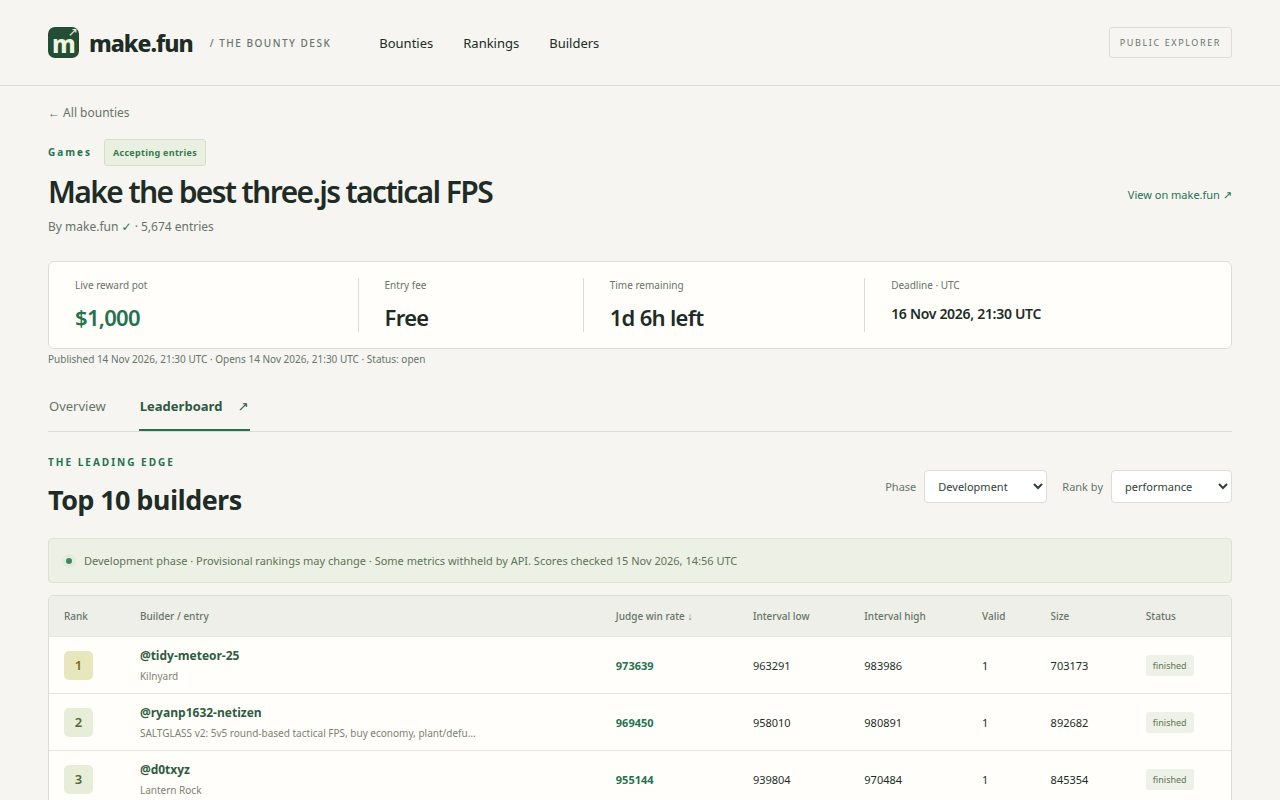
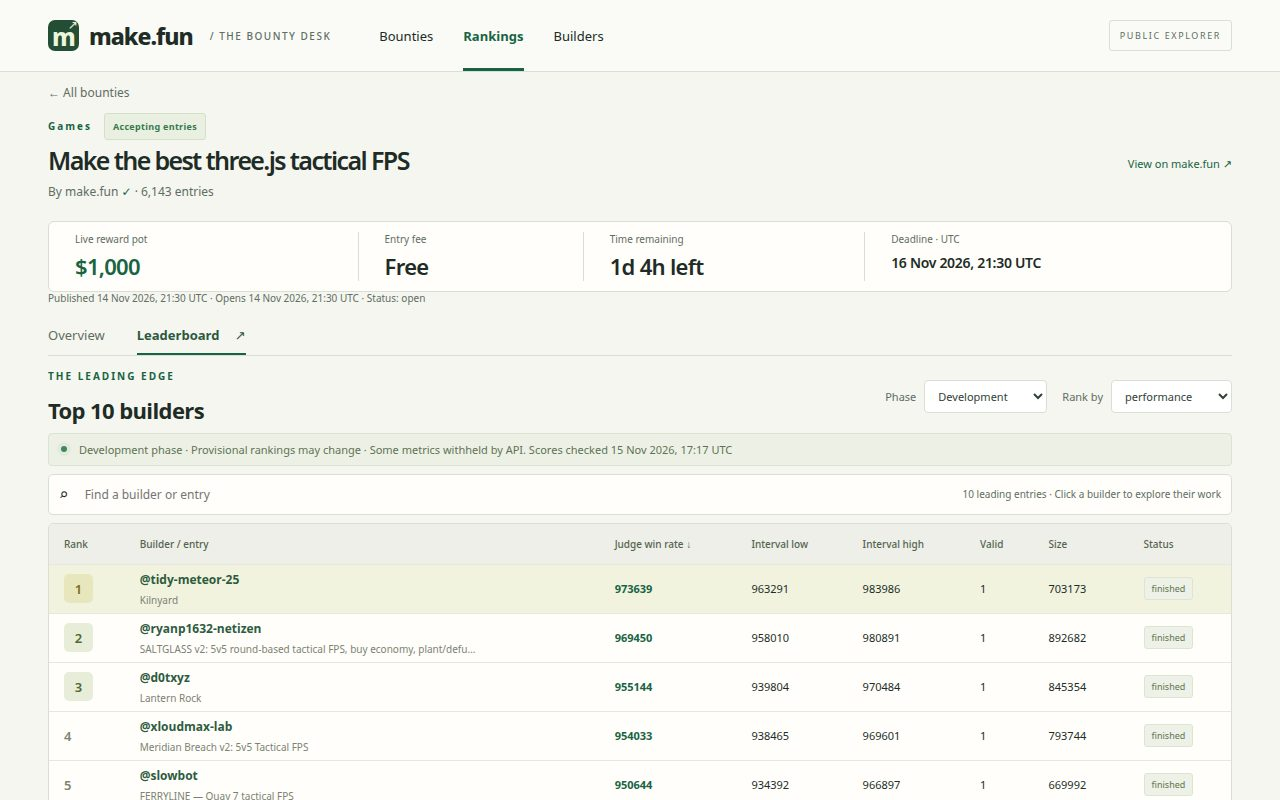
Add compact bounty timetable and surface filters

diff --git a/src/style.css b/src/style.css
@@ -1,0 +1,8 @@
+:root{font-family:system-ui,-apple-system,BlinkMacSystemFont,"Segoe UI",sans-serif;color:#202b26;background:#f6f5f1;font-synthesis:none;--green:#267150;--muted:#68736a;--line:#dcded5}*{box-sizing:border-box}body{margin:0}a{color:inherit;text-decoration:none}a:hover{color:var(--green)}button,input,select{font:inherit}button,select{cursor:pointer}button{padding:11px 18px;border:1px solid var(--line);background:#fff;border-radius:5px;color:#243f31}button:hover{border-color:var(--green);background:#edf3e9}button:disabled{opacity:.55}a:focus-visible,button:focus-visible,input:focus-visible,select:focus-visible,summary:focus-visible{outline:3px solid #2a815b;outline-offset:4px}header{height:86px;margin:0 auto;padding:0 48px;border-bottom:1px solid var(--line);display:flex;align-items:center;gap:48px}.brand{font-weight:800;font-size:23px;display:flex;align-items:center;gap:10px;letter-spacing:-1px}.mark{background:#244d35;color:#eef5dd;width:31px;height:31px;display:grid;place-items:center;border-radius:7px;font-size:24px;position:relative}.mark span{font-size:12px;position:absolute;right:2px;top:-4px}.edition{font-size:10px;letter-spacing:1.5px;font-weight:500;color:var(--muted);margin-left:7px}header nav{display:flex;gap:30px;font-size:13px}header nav a[aria-current]{font-weight:700}header nav a:hover{text-decoration:underline}.readonly{margin-left:auto;font-size:9px;letter-spacing:1.6px;color:var(--muted);border:1px solid var(--line);padding:8px 10px;border-radius:3px}main{max-width:1184px;padding:0 0 50px;margin:auto;min-height:calc(100vh - 166px)}main:focus{outline:none}.intro{display:grid;grid-template-columns:1fr 420px;gap:80px;padding:50px 0 42px;align-items:center}.eyebrow{font-size:10px;letter-spacing:2px;font-weight:700;color:var(--green);margin:0 0 18px;display:flex;align-items:center;gap:12px}.dot,.live-label i{display:inline-block;width:6px;height:6px;border-radius:50%;background:#3f8860}.dot{box-shadow:0 0 0 4px #e3ebdc}h1{font-size:58px;line-height:1.04;letter-spacing:-2.8px;font-weight:600;margin:0 0 20px}h2{font-size:20px;letter-spacing:-.6px;margin:0}h3{font-size:17px;line-height:1.5}p{line-height:1.7}.lede{font-size:14px;color:var(--muted);margin:0}.board-total{background:#e9eddf;border:1px solid #d8dfc9;padding:27px 29px;border-radius:7px;position:relative;overflow:hidden}.board-total:after{content:'↗';position:absolute;right:24px;top:38px;font-size:62px;font-weight:200;color:#a0b48f}.board-total>.eyebrow{font-size:9px;letter-spacing:1.8px}.board-total>strong{display:block;font-size:49px;font-weight:600;letter-spacing:-2px;color:#2f5034;line-height:1.3}.board-total>span:not(.eyebrow){font-size:12px;color:#5f7059}.mini-stats{display:flex;justify-content:space-between;border-top:1px solid #d0d9c2;margin-top:23px;padding-top:16px;font-size:10px;color:#5f7059}.mini-stats b{color:#304b31}.live-label{display:flex;align-items:center;gap:5px}.section-heading{display:flex;align-items:center;justify-content:space-between;margin:0 0 20px;gap:15px}.section-heading>span{font-size:11px;color:var(--muted)}.count{font-size:11px;background:#e8e9e2;letter-spacing:0;margin-left:8px;padding:4px 8px;border-radius:12px;vertical-align:middle;color:#6a7468}.filters{border:1px solid var(--line);border-radius:5px;background:#fcfcf9;display:flex;align-items:center;gap:18px;padding:11px 14px;margin-bottom:14px}.search{display:flex;align-items:center;gap:10px;flex:1}.search>span{font-size:25px;color:#7a8679;line-height:1}input[type=search]{border:0;background:transparent;min-width:80px;width:100%;font-size:12px;padding:6px;color:#263c2e;outline-offset:0}.category-label{display:flex;align-items:center;gap:10px;border-left:1px solid var(--line);padding-left:18px;font-size:11px;color:var(--muted)}select{border:1px solid var(--line);background:#fff;border-radius:4px;padding:7px 22px 7px 9px;font-size:11px;color:#324137}.open-only{display:flex;align-items:center;gap:7px;font-size:11px;color:#5b675e}input[type=checkbox]{accent-color:var(--green)}.board-columns,.bounty-row{display:grid;grid-template-columns:minmax(320px,1fr) 130px 100px 140px 80px 22px;gap:16px;align-items:center}.board-columns{font-size:9px;letter-spacing:1.2px;color:#768075;padding:12px 21px}.bounty-row{padding:21px;background:#fffefa;border:1px solid var(--line);border-radius:5px;margin-bottom:9px;transition:border-color .15s}.bounty-row:hover{border-color:#8eaa89}.bounty-name{display:flex;align-items:center;gap:15px;min-width:0}.category-icon{display:grid;place-items:center;flex-shrink:0;width:40px;height:40px;border:1px solid #e2e6da;background:#eef1e6;border-radius:7px;font-size:23px;color:#47613c}.bounty-name a{font-size:13px;font-weight:600;line-height:1.45;display:block}.category{display:block;font-size:10px;color:#687462;margin-top:6px}.category>span{color:#92978b}.pot{font-size:21px;font-weight:600;letter-spacing:-.6px;color:#306447;font-variant-numeric:tabular-nums}.fee,.entries{font-size:12px;color:#657060}.deadline{font-size:11px;color:#7a8077}.deadline.active time{background:#edf2e6;color:#4d6b3b;padding:7px 9px;border-radius:4px;white-space:nowrap}.row-arrow{font-size:20px;color:#708069}.ended .category-icon{background:#f1f0eb;color:#8a8b80}.ended .pot{color:#687361}.list-bottom{display:flex;align-items:center;justify-content:space-between;margin-top:20px;font-size:11px;color:var(--muted)}footer{display:flex;align-items:center;justify-content:space-between;gap:20px;border-top:1px solid var(--line);padding:25px 48px;font-size:10px;color:var(--muted)}.brand.small{font-size:17px;letter-spacing:-.6px;color:#364b3c}.back{display:inline-block;font-size:12px;color:var(--muted);margin:30px 0}.detail-title{display:flex;justify-content:space-between;align-items:center;gap:35px}.detail-title h1{font-size:39px;max-width:800px;line-height:1.12;letter-spacing:-1.6px;margin-bottom:14px}.detail-title .eyebrow{margin-bottom:15px}.tag{font-size:9px;letter-spacing:.3px;border:1px solid var(--line);border-radius:3px;padding:5px 8px;color:#78816d}.tag.green{color:#38784c;background:#e9f0e2;border-color:#d5e0c8}.sponsor{font-size:12px;color:var(--muted);margin:0 0 24px}.sponsor>span{color:var(--green)}.text-link{font-size:11px;white-space:nowrap;color:var(--green)}.metric-strip{display:grid;grid-template-columns:1.1fr .8fr 1fr 1.3fr;border:1px solid var(--line);border-radius:6px;background:#fffefa;margin:8px 0 22px;padding:22px 0}.metric-strip>div{padding:0 26px;border-right:1px solid var(--line)}.metric-strip>div:last-child{border:0}.metric-strip span{display:block;font-size:10px;color:var(--muted);margin-bottom:10px}.metric-strip strong{font-size:26px;font-weight:600;letter-spacing:-.7px}.metric-strip .accent{color:var(--green)}.metric-strip .date-metric{font-size:15px;letter-spacing:-.3px}.metric-strip .time-metric{font-size:23px}.tabs{display:flex;gap:32px;border-bottom:1px solid var(--line);margin-bottom:30px}.tabs a{padding:14px 1px;font-size:13px;color:var(--muted)}.tabs a[aria-current]{color:#2d573e;border-bottom:2px solid var(--green);font-weight:650}.tabs span{margin-left:12px}.detail-grid{display:grid;grid-template-columns:minmax(0,1fr) 330px;gap:48px;align-items:start}.description>.eyebrow{margin-top:6px}.description h2{font-size:25px}.summary{font-size:15px;color:#4b5d4d;line-height:1.8}.prose{font-size:13px;line-height:1.8;color:#596356;overflow-wrap:anywhere}.prose h3{color:#2d3d30;margin-top:27px}.prose p{margin:16px 0}.panel{padding:23px;background:#fffefa;border:1px solid var(--line);border-radius:6px;margin-bottom:20px}.panel h2{font-size:17px}.panel>.section-heading{margin-bottom:8px}.panel p{font-size:11px;color:var(--muted);margin:8px 0 15px}table{border-collapse:collapse;width:100%;font-size:12px;text-align:left}th{font-weight:500;color:var(--muted);font-size:10px}th,td{padding:11px 8px;border-bottom:1px solid #e6e8df}.rewards th:last-child,.rewards td:last-child{text-align:right}.rewards td:last-child{font-weight:600;color:var(--green);font-variant-numeric:tabular-nums}.rewards tr:last-child td{border:0}.place{display:inline-grid;place-items:center;width:23px;height:23px;background:#f1f2ea;border-radius:4px;font-size:10px}.rewards tbody tr:first-child .place{background:#e8edcf;color:#5b6a28}.dates dt{font-size:10px;color:var(--muted);margin:16px 0 5px}.dates dd{margin:0;font-size:12px}details{border-top:1px solid var(--line);margin-top:20px;padding:17px 0}summary{cursor:pointer;font-size:14px;font-weight:600}.switchers{display:flex;gap:15px}.switchers label{font-size:11px;color:var(--muted);display:flex;gap:8px;align-items:center}.leaderboard-heading{margin-bottom:20px}.leaderboard-heading .eyebrow{margin-bottom:10px}.leaderboard-heading h2{font-size:27px}.notice{font-size:11px;display:flex;gap:12px;align-items:center;border:1px solid #dce4d0;background:#edf1e5;padding:14px 17px;margin-bottom:16px;border-radius:4px;color:#5f7155}.table-wrap{overflow:auto;border:1px solid var(--line);border-radius:5px;background:#fffefa}.leaderboard{min-width:800px}.leaderboard th{background:#eeefe8;white-space:nowrap;padding:13px 15px}.leaderboard td{padding:14px 15px;font-size:11px}.leaderboard tr:last-child td{border-bottom:0}.leaderboard tbody tr:hover{background:#f6f8f0}.rank{font-size:13px;font-weight:600;color:#7b8373}.rank-1,.rank-2,.rank-3{background:#e8edda;color:#526a32;display:inline-grid;place-items:center;border-radius:5px;width:29px;height:29px}.rank-1{background:#e8e6bc;color:#776e20}.builder-link{font-weight:650;font-size:12px;color:#2e5b40}.entry-title{display:block;max-width:340px;font-size:10px;margin-top:5px;color:#7b8273;white-space:nowrap;overflow:hidden;text-overflow:ellipsis}.numeric{font-variant-numeric:tabular-nums}.primary-score{color:var(--green);font-weight:700}.status-tag{display:inline-block;background:#edf1e7;color:#60744f;padding:4px 7px;border-radius:3px;font-size:9px}.table-note{font-size:10px;color:var(--muted);margin-top:15px}.profile-head{display:flex;align-items:center;gap:25px}.profile-head h1{font-size:42px;letter-spacing:-1.5px;margin-bottom:10px}.profile-head .eyebrow{margin-bottom:10px}.profile-head .sponsor{margin-bottom:0}.avatar{border-radius:16px;border:1px solid var(--line);object-fit:cover;background:#e8eddf}.initials{display:grid;place-items:center;width:88px;height:88px;font-size:30px;color:var(--green)}.profile-bio{max-width:730px;font-size:15px;color:#65705e}.socials{display:flex;gap:20px;font-size:11px;color:var(--green);flex-wrap:wrap}.profile-stats{display:grid;grid-template-columns:repeat(6,1fr);margin:30px 0 40px;border:1px solid var(--line);border-radius:6px;padding:25px 0;background:#fffefa}.profile-stats>div{padding:0 23px;border-right:1px solid var(--line)}.profile-stats>div:last-child{border:0}.profile-stats strong{display:block;font-size:28px;font-weight:600;color:var(--green)}.profile-stats span{font-size:10px;color:var(--muted);display:block;margin-top:8px}.solution{border-top:1px solid var(--line);padding:17px 0}.solution h3{font-size:14px;margin:0 0 8px}.solution>a{font-size:11px;color:var(--green)}.solution p{font-size:10px;color:var(--muted);margin:8px 0 0}.payout{padding:20px 0;border-top:1px solid var(--line);margin-top:17px}.payout strong{font-size:25px;color:var(--green)}.payout a{display:block;font-size:12px;line-height:1.6;margin:8px 0}.payout>span{font-size:10px;color:var(--muted)}.empty,.loading{text-align:center;padding:70px 20px;color:var(--muted)}.empty h1,.loading h1{font-size:36px;letter-spacing:-1px;color:#304a35}.error .eyebrow{justify-content:center}.loader{display:block;margin:20px auto;width:28px;height:28px;border:2px solid var(--line);border-top-color:var(--green);border-radius:50%;animation:spin 1s linear infinite}@keyframes spin{to{transform:rotate(360deg)}}.skip,.sr-only{position:absolute;width:1px;height:1px;overflow:hidden;clip-path:inset(50%)}.skip:focus{clip-path:none;width:auto;height:auto;background:#fff;padding:14px;z-index:9;top:5px;left:5px}[hidden]{display:none!important}@media(min-width:1450px){main{max-width:1280px}.intro{padding-top:65px;padding-bottom:55px}}@media(max-width:1240px){main{margin:0 32px}.board-columns,.bounty-row{grid-template-columns:minmax(280px,1fr) 110px 80px 120px 65px 20px;gap:10px}header{padding:0 32px;gap:30px}.edition{display:none}.intro{gap:40px;grid-template-columns:1fr 390px}.detail-grid{gap:30px}}@media(max-width:900px){.readonly{display:none}.intro{grid-template-columns:1fr 310px;gap:25px}h1{font-size:48px}.board-total{padding:23px}.board-total>strong{font-size:40px}.mini-stats{flex-wrap:wrap;gap:10px}.board-columns{display:none}.bounty-row{grid-template-columns:1fr 100px 70px}.bounty-name{grid-column:span 3}.row-arrow{display:none}.bounty-row [data-label]:before{content:attr(data-label);display:block;color:#858c7e;font-size:9px;margin-bottom:6px;font-weight:400;letter-spacing:0}.pot{font-size:20px}.deadline{grid-column:2;grid-row:2}.fee{grid-column:1;grid-row:3}.entries{grid-column:3;grid-row:2}.detail-grid{grid-template-columns:1fr 285px;gap:24px}.metric-strip>div{padding:0 15px}.metric-strip .date-metric{font-size:12px}.detail-title h1{font-size:32px}.profile-stats>div{padding:0 14px}}@media(max-width:640px){header{height:72px;padding:0 20px;gap:20px;justify-content:space-between}.brand{font-size:20px;gap:8px}header nav{gap:15px;font-size:11px}.mark{width:27px;height:27px}main{margin:0 20px}.intro{grid-template-columns:1fr;padding:34px 0;gap:27px}h1{font-size:47px}.lede{font-size:13px}.board-total{padding:21px 23px}.board-total>strong{font-size:43px}.mini-stats{margin-top:15px;padding-top:13px}.section-heading{gap:8px}.section-heading>span{font-size:9px}.section-heading h2{font-size:18px}.filters{flex-wrap:wrap;gap:12px;padding:12px}.search{flex-basis:100%}.category-label{border:0;padding:0;flex:1;font-size:10px;gap:7px}.open-only{font-size:9px;gap:3px}.category-label select{max-width:145px}.bounty-row{padding:17px;grid-template-columns:1fr 100px 55px;gap:16px 6px}.bounty-name a{font-size:13px}.bounty-name{gap:12px}.category-icon{width:34px;height:34px;font-size:21px}.fee{grid-column:2;grid-row:3}.pot{grid-row:2}.deadline{grid-column:1;grid-row:3}.deadline.active time{padding:0;background:transparent}.entries{grid-column:3}.detail-title{display:block}.detail-title h1{font-size:32px}.detail-title>.text-link{display:inline-block;margin-bottom:20px}.metric-strip{grid-template-columns:1fr 1fr;gap:25px 0;padding:20px 0}.metric-strip>div:nth-child(2){border:0}.metric-strip .date-metric{font-size:12px}.detail-grid{grid-template-columns:1fr;gap:24px}.description{order:1}.description+.aside{order:0}.detail-grid>aside{min-width:0}.rewards{max-height:410px;overflow:auto}.leaderboard-heading{display:block}.leaderboard-heading h2{font-size:24px}.switchers{margin-top:20px;gap:12px}.switchers label{font-size:10px}.notice{line-height:1.7;align-items:flex-start}.notice>.dot{flex-shrink:0;margin-top:6px}.profile-head{gap:16px}.profile-head h1{font-size:31px}.profile-head .eyebrow{font-size:8px}.avatar{width:65px;height:65px}.profile-head .sponsor{font-size:10px}.profile-stats{grid-template-columns:repeat(3,1fr);gap:25px 0}.profile-stats>div:nth-child(3){border:0}.profile-stats strong{font-size:25px}.profile-stats span{font-size:9px}footer{padding:23px 20px;flex-wrap:wrap;gap:15px}footer>span:nth-child(2){display:none}.back{margin:25px 0}.wallet{overflow-wrap:anywhere}}@media(prefers-reduced-motion:reduce){*{animation:none!important;transition:none!important}}
+
+.timeline{font-size:10px;color:var(--muted);line-height:1.7;margin:-8px 0 10px}.error a{display:inline-block;margin-left:12px}
+/* Keep live opportunities visible above the fold on desktop. */
+@media(min-width:901px){.intro{padding-top:30px;padding-bottom:28px}.intro h1{font-size:48px}.intro .eyebrow{margin-bottom:12px}.board-total{padding-top:20px;padding-bottom:20px}.bounty-row{padding-top:16px;padding-bottom:16px}}
+@media(min-width:641px){main[data-surface=leaderboard] .back{margin:18px 0}main[data-surface=leaderboard] .detail-title h1{font-size:30px;margin-bottom:8px}main[data-surface=leaderboard] .detail-title .eyebrow{margin-bottom:9px}main[data-surface=leaderboard] .sponsor{margin-bottom:12px}main[data-surface=leaderboard] .metric-strip{margin-top:12px;margin-bottom:10px;padding-top:16px;padding-bottom:16px}main[data-surface=leaderboard] .metric-strip strong{font-size:22px}main[data-surface=leaderboard] .metric-strip .date-metric{font-size:14px}main[data-surface=leaderboard] .tabs{margin-top:15px;margin-bottom:22px}main[data-surface=leaderboard] .notice{margin-top:12px;margin-bottom:12px}main[data-surface=leaderboard] .leaderboard td{padding-top:10px;padding-bottom:10px}}
+
+.deadline small{display:block;font-size:9px;color:var(--muted);margin-top:8px;font-variant-numeric:tabular-nums}.deadline.active time{font-weight:700;background:#dfeccd;color:#31551f}.board-columns,.bounty-row{grid-template-columns:minmax(300px,1fr) 125px 85px 160px 70px 20px}@media(min-width:901px){.intro{padding:21px 0}.intro h1{font-size:39px}.board-total{padding:18px 24px}.bounty-row{padding-top:11px;padding-bottom:11px}.bounty-name a{font-size:12px}.category-icon{width:30px;height:30px}.quick-filters{margin:9px 0}}@media(max-width:900px){.board-columns{display:none}.bounty-row{grid-template-columns:1fr 110px 70px}}@media(max-width:640px){.bounty-row{grid-template-columns:1fr 100px 55px}.deadline small{font-size:8px}.deadline.active time{background:none}}@media(min-width:641px){main[data-surface=leaderboard] .back{margin:12px 0}main[data-surface=leaderboard] .detail-title .eyebrow{margin-bottom:6px}main[data-surface=leaderboard] .detail-title h1{font-size:25px}main[data-surface=leaderboard] .metric-strip{padding:10px 0;margin:6px 0}main[data-surface=leaderboard] .metric-strip span{margin-bottom:5px}main[data-surface=leaderboard] .tabs{margin:4px 0 12px}main[data-surface=leaderboard] .tabs a{padding:9px 0}main[data-surface=leaderboard] .leaderboard-heading{margin-bottom:8px}main[data-surface=leaderboard] .leaderboard-heading h2{font-size:22px}main[data-surface=leaderboard] .notice{padding:8px 12px;margin:8px 0}main[data-surface=leaderboard] .leaderboard td{padding-top:6px!important;padding-bottom:6px!important}.table-tools{padding:5px 10px;margin-bottom:8px}}

diff --git a/src/main.js b/src/main.js
@@ -1,0 +1,101 @@
+import { boardAPI, bountyAPI, leaderboardAPI, profileAPI } from './api.js';
+import { boardView, boardRows, bountyView, leaderboardView, profileView, solutionRows } from './views.js';
+import { esc, accepting, remaining, bountyURL } from './format.js';
+const main = document.querySelector('main');
+let generation = 0;
+let boardState = { items: [], next_cursor: null };
+let filterState = { text: '', category: '', open: false, free: false, sort: 'deadline' };
+let activeSurface = '';
+function renderBoardRows() {
+  const items = boardState.items.filter(b => (!filterState.text || (b.title + ' ' + b.category + ' ' + (b.skills || []).join(' ')).toLowerCase().includes(filterState.text)) && (!filterState.category || b.category === filterState.category) && (!filterState.open || accepting(b)) && (!filterState.free || !Number(b.entryFeeUsd))).sort((a,b) => filterState.sort === 'pot' ? Number(b.potUsd ?? b.rewardAmount)-Number(a.potUsd ?? a.rewardAmount) : filterState.sort === 'entries' ? Number(b.submissionCount)-Number(a.submissionCount) : filterState.sort === 'fee' ? Number(a.entryFeeUsd || 0)-Number(b.entryFeeUsd || 0) : Number(accepting(b))-Number(accepting(a)) || (accepting(a) ? Date.parse(a.deadline)-Date.parse(b.deadline) : Date.parse(b.deadline)-Date.parse(a.deadline)));
+  document.querySelector('#board-list').innerHTML = boardRows(items);
+  document.querySelector('#result-count').textContent = `Showing ${items.length} of ${boardState.items.length} bounties`;
+}
+function bindBoard() {
+  const search = document.querySelector('#search'), category = document.querySelector('#category'), open = document.querySelector('#open-only');
+  search.value = filterState.text; category.value = filterState.category; open.checked = filterState.open;
+  search.oninput = () => { filterState.text = search.value.toLowerCase(); renderBoardRows(); };
+  category.onchange = () => { filterState.category = category.value; renderBoardRows(); };
+  open.onchange = () => { filterState.open = open.checked; document.querySelectorAll('[data-quick]').forEach(b=>b.setAttribute('aria-pressed', String(b.dataset.quick === (filterState.free ? 'free' : filterState.open ? 'open' : 'all')))); renderBoardRows(); };
+  document.querySelector('#load-more').onclick = async event => {
+    const token = generation, button = event.currentTarget;
+    button.disabled = true; button.textContent = 'Loading…';
+    try {
+      const next = await boardAPI(boardState.next_cursor);
+      if (token !== generation) return;
+      const known = new Set(boardState.items.map(b=>b.slug));
+      boardState.items.push(...next.items.filter(b=>!known.has(b.slug))); boardState.next_cursor = next.next_cursor;
+      button.hidden = !next.next_cursor; renderBoardRows();
+    } catch { if (token === generation) document.querySelector('#result-count').textContent = 'Could not load more. Try again.'; }
+    finally { button.disabled = false; button.textContent = 'Load more bounties ↓'; }
+  };
+  const sort = document.querySelector('#board-sort'); sort.value = filterState.sort;
+  sort.onchange = () => { filterState.sort = sort.value; renderBoardRows(); };
+  document.querySelectorAll('[data-quick]').forEach(button => {
+    button.setAttribute('aria-pressed', String(button.dataset.quick === (filterState.free ? 'free' : filterState.open ? 'open' : 'all')));
+    button.onclick = () => { filterState.open = button.dataset.quick === 'open'; filterState.free = button.dataset.quick === 'free'; open.checked = filterState.open; document.querySelectorAll('[data-quick]').forEach(b=>b.setAttribute('aria-pressed',String(b===button))); renderBoardRows(); };
+  });
+  renderBoardRows();
+}
+export async function route(refresh = false) {
+  const token = ++generation;
+  window.__shotReady = false;
+  main.setAttribute('aria-busy','true');
+  const raw = location.hash.slice(1) || '/';
+  const [path, query = ''] = raw.split('?');
+  const parts = path.split('/').filter(Boolean).map(p => { try { return decodeURIComponent(p); } catch { return p; } });
+  const params = new URLSearchParams(query);
+  if (!refresh) main.innerHTML = '<section class="loading" role="status"><span class="loader"></span><h1>Opening the desk…</h1><p>Fetching the latest public data.</p></section>';
+  try {
+    let html, title;
+    if (!parts.length) {
+      boardState = await boardAPI(); html = boardView(boardState); title = 'Bounties'; activeSurface = 'board';
+    } else if (parts[0] === 'bounty' && parts[1]) {
+      const bounty = await bountyAPI(parts[1]);
+      if (parts[2] === 'leaderboard') {
+        const phase = params.get('phase') === 'final' ? 'final' : 'dev';
+        const view = ['overall','performance','cost','efficiency'].includes(params.get('view')) ? params.get('view') : 'overall';
+        const lb = await leaderboardAPI(parts[1],phase,view);
+        html = leaderboardView(bounty,lb,phase,view); activeSurface = 'leaderboard';
+      } else { html = bountyView(bounty); activeSurface = 'bounty'; }
+      title = bounty.title + (parts[2] === 'leaderboard' ? ' · Rankings' : '');
+    } else if (parts[0] === 'profile' && parts[1]) {
+      const profile = await profileAPI(parts[1]);
+      html = profileView(profile); title = '@' + profile.handle; activeSurface = 'profile';
+      if (token !== generation) return;
+      main.innerHTML = html;
+      let shown = 10;
+      const update = () => { const text = document.querySelector('#solution-search').value.toLowerCase(), sort = document.querySelector('#solution-sort').value; const items = (profile.solutions || []).filter(s => (s.title + ' ' + s.competition?.title).toLowerCase().includes(text) && (!document.querySelector('#placed-only').checked || s.placement)).slice().sort((a,b)=>sort==='placement' ? (a.placement || Infinity)-(b.placement || Infinity) : sort==='title' ? String(a.title).localeCompare(String(b.title)) : 0); document.querySelector('#solutions').innerHTML = solutionRows(items.slice(0,shown)); document.querySelector('#solution-count').textContent = `${items.length} matching solutions`; document.querySelector('#more-solutions').hidden = shown >= items.length; };
+      for (const id of ['solution-search','solution-sort','placed-only']) document.getElementById(id).oninput = () => { shown = 10; update(); };
+      document.querySelector('#more-solutions').onclick = () => { shown += 10; update(); }; update();
+    } else { throw new Error('This page could not be found.'); }
+    if (token !== generation) return;
+    if (activeSurface !== 'profile') main.innerHTML = html;
+    if (activeSurface === 'board') bindBoard();
+    if (activeSurface === 'bounty') {
+      document.querySelector('#read-brief').onclick = event => { const expanded = document.querySelector('.brief').classList.toggle('expanded'); event.currentTarget.textContent = expanded ? 'Collapse brief ↑' : 'Read full brief ↓'; event.currentTarget.setAttribute('aria-expanded', String(expanded)); };
+      document.querySelector('#expand-brief').onclick = event => { const expanded = event.currentTarget.getAttribute('aria-expanded') !== 'true'; main.querySelectorAll('details').forEach(d=>d.open=expanded); event.currentTarget.setAttribute('aria-expanded',String(expanded)); event.currentTarget.textContent = expanded ? 'Collapse details −' : 'Expand all details +'; };
+    }
+    if (activeSurface === 'leaderboard') {
+      document.querySelector('#rank-search').oninput = event => { let count = 0; main.querySelectorAll('.leaderboard tbody tr').forEach(row => { row.hidden = !row.textContent.toLowerCase().includes(event.target.value.toLowerCase()); if (!row.hidden) count++; }); document.querySelector('#rank-count').textContent = `${count} matching entries in this top ten`; };
+      const change = () => { location.hash = bountyURL(parts[1]) + '/leaderboard?phase=' + document.querySelector('#phase').value + '&view=' + document.querySelector('#rank-view').value; };
+      document.querySelector('#phase').onchange = change; document.querySelector('#rank-view').onchange = change;
+    }
+    main.dataset.surface = activeSurface;
+    document.title = title + ' · make.fun Bounty desk';
+    document.querySelectorAll('header nav a').forEach((a,i)=>{ if (['board','leaderboard','profile'][i] === activeSurface) a.setAttribute('aria-current','page'); else a.removeAttribute('aria-current'); });
+    document.querySelector('#freshness').textContent = 'Checked ' + new Date().toLocaleTimeString('en-GB',{hour:'2-digit',minute:'2-digit',timeZone:'UTC'}) + ' UTC · Read only';
+    main.setAttribute('aria-busy','false'); window.__shotReady = true;
+    if (!refresh) { window.scrollTo(0,0); main.focus({preventScroll:true}); }
+  } catch (error) {
+    if (token !== generation) return;
+    main.innerHTML = `<section class="empty error"><p class="eyebrow">CONNECTION PAUSED</p><h1>Let's try that again.</h1><p>${esc(error.message)}</p><p>The desk needs a connection to make.fun's public API.</p><button id="retry">Retry loading ↗</button> <a href="#/">Back to bounties</a></section>`;
+    main.setAttribute('aria-busy','false'); document.querySelector('#retry').onclick = () => route();
+    document.querySelector('#freshness').textContent = 'Unable to refresh · Data not loaded';
+  }
+}
+window.addEventListener('hashchange',()=>route());
+window.addEventListener('online',()=>route(true));
+setInterval(() => { if (!document.hidden && !main.contains(document.activeElement?.closest('input,select,button,details')) && main.getAttribute('aria-busy') !== 'true') route(true); },60000);
+setInterval(() => { document.querySelectorAll('[data-deadline]').forEach(el=>el.textContent=remaining(el.dataset.deadline)); },15000);
+route();

diff --git a/src/views.js b/src/views.js
@@ -1,0 +1,21 @@
+import { esc, money, number, date, accepting, remaining, bountyURL, profileURL, safeURL, prose } from './format.js';
+export function bountyHeader(b, tab = 'overview') {
+  const url = bountyURL(b.slug);
+  return `<a class="back" href="#/">← All bounties</a><div class="detail-title"><div><p class="eyebrow">${esc(b.category)} <span class="tag ${accepting(b) ? 'green' : ''}">${accepting(b) ? 'Accepting entries' : 'Ended'}</span></p><h1>${esc(b.title)}</h1><p class="sponsor">By ${esc(b.sponsor?.name || 'make.fun')} <span>✓</span> · ${number(b.submissionCount)} entries</p></div><a class="text-link" href="https://make.fun/bounty/${encodeURIComponent(b.slug)}" target="_blank" rel="noreferrer">View on make.fun ↗</a></div><div class="metric-strip"><div><span>Live reward pot</span><strong class="accent">${money(b.potUsd ?? b.rewardAmount)}</strong></div><div><span>Entry fee</span><strong>${Number(b.entryFeeUsd) ? money(b.entryFeeUsd) : 'Free'}</strong></div><div><span>Time remaining</span><strong class="time-metric" data-deadline="${esc(b.deadline)}">${remaining(b.deadline)}</strong></div><div><span>Deadline · UTC</span><strong class="date-metric">${date(b.deadline)}</strong></div></div><p class="timeline">Published ${date(b.publishedAt)}${b.opensAt ? ' · Opens ' + date(b.opensAt) : ''} · Status: ${esc(b.status || 'open')}</p><nav class="tabs" aria-label="Bounty"><a href="${url}" ${tab === 'overview' ? 'aria-current="page"' : ''}>Overview</a><a href="${url}/leaderboard" ${tab === 'leaderboard' ? 'aria-current="page"' : ''}>Leaderboard <span>↗</span></a></nav>`;
+}
+export function bountyView(b) {
+  const rewards = b.rewardsNow?.length ? b.rewardsNow : Object.entries(b.rewards || {}).map(([place, amount]) => ({ place, amountUsd: Number(amount) * Number(b.potUsd ?? b.rewardAmount) / Number(b.rewardAmount || 1) }));
+  return bountyHeader(b) + `<div class="detail-grid"><article class="description"><p class="eyebrow">THE CHALLENGE</p><h2>Build. Submit. Stand out.</h2><p class="summary">${esc(b.summary || (b.description || '').split('\n')[0])}</p><div class="prose">${prose(b.description)}</div>${b.prerequisites ? `<details><summary>Prerequisites</summary><div class="prose">${prose(b.prerequisites)}</div></details>` : ''}${b.rules ? `<details><summary>Rules & requirements</summary><div class="prose">${prose(b.rules)}</div></details>` : ''}${b.resolution ? `<details><summary>How entries are judged</summary><div class="prose">${prose(b.resolution.summary || b.resolution)}</div></details>` : ''}</article><aside><section class="panel rewards"><div class="section-heading"><h2>Rewards</h2><span>${rewards.length} places</span></div><p>Live amounts, including entry fees.</p><table><caption class="sr-only">Live reward by finishing place</caption><thead><tr><th>Place</th><th>Reward</th></tr></thead><tbody>${rewards.map(r => `<tr><td><span class="place">${esc(r.place)}</span>${Number(r.place) === 1 ? ' Winner' : ''}</td><td>${money(r.amountUsd)}</td></tr>`).join('') || '<tr><td colspan="2">Rewards to be announced</td></tr>'}</tbody></table></section><section class="panel dates"><h2>Key dates</h2><dl><dt>Status</dt><dd>${esc(b.status)} · ${accepting(b) ? 'Entries open' : 'Entries closed'}</dd>${[['Published',b.publishedAt],['Entries open',b.opensAt],['Deadline',b.deadline],['Resolved',b.resolvedAt]].filter(([,v])=>v).map(([k,v])=>`<dt>${k}</dt><dd>${date(v)}</dd>`).join('')}</dl></section></aside></div>`;
+}
+export function leaderboardView(b, lb, phase, view) {
+  const columns = (lb.columns || []).filter(c => !c.hidden);
+  return bountyHeader(b,'leaderboard') + `<section><div class="section-heading leaderboard-heading"><div><p class="eyebrow">THE LEADING EDGE</p><h2>Top 10 builders</h2></div><form class="switchers"><label>Phase <select id="phase">${(b.phases?.length ? b.phases : [{key:'dev',title:'Development'},{key:'final',title:'Final'}]).map(p => `<option value="${esc(p.key)}" ${p.key===phase?'selected':''}>${esc(p.title || p.key)}</option>`).join('')}</select></label><label>Rank by <select id="rank-view">${(lb.views || [view]).map(v=>`<option value="${esc(v)}" ${v===(lb.view || view)?'selected':''}>${esc(v)}</option>`).join('')}</select></label></form></div><div class="notice"><span class="dot"></span><span>${esc(lb.phase?.title || phase)} phase · ${lb.phase?.scores_visible === false ? 'Scores are withheld' : 'Provisional rankings may change'}${lb.metrics_withheld ? ' · Some metrics withheld by API' : ''}. ${lb.phase?.finalized_at ? 'Finalized ' + date(lb.phase.finalized_at) : 'Scores checked ' + date(new Date().toISOString())}</span></div><div class="table-wrap"><table class="leaderboard"><caption class="sr-only">Top ten ${esc(lb.title || 'results')} · ranked by ${esc(lb.rank_key)}</caption><thead><tr><th>Rank</th><th>Builder / entry</th>${columns.map(c=>`<th>${esc(c.title)}${c.key===lb.rank_key?' ↓':''}</th>`).join('')}<th>Status</th></tr></thead><tbody>${(lb.entries || []).slice(0,10).map(e=>`<tr><td><span class="rank rank-${e.rank}">${esc(e.rank ?? '—')}</span></td><td><a class="builder-link" href="${profileURL(e.handle)}">@${esc(e.handle)}</a><span class="entry-title">${esc(e.title)}</span></td>${columns.map(c=>`<td class="numeric ${c.key===lb.rank_key?'primary-score':''}">${esc(e.display?.[c.key] ?? (e.values?.[c.key] == null ? '—' : number(e.values[c.key])))}</td>`).join('')}<td><span class="status-tag">${esc(e.status || '—')}</span></td></tr>`).join('') || `<tr><td colspan="${columns.length+3}" class="empty">No published entries in this phase yet.</td></tr>`}</tbody></table></div><p class="table-note">First 10 entries · Rank key: ${esc(lb.rank_key || 'not published')} ${lb.tie_break ? '· Tie-break: ' + esc(lb.tie_break.title) + ' (' + esc(lb.tie_break.better) + ')' : ''}</p></section>`;
+}
+export function profileView(p) {
+  const r = p.record || {};
+  const avatar = p.avatar?.url || p.image;
+  return `<a class="back" href="#/">← All bounties</a><section class="profile-head">${avatar ? `<img class="avatar" crossorigin="anonymous" src="${safeURL(avatar)}" alt="${esc(p.handle)} avatar" width="88" height="88">` : `<span class="avatar initials">${esc(p.handle?.slice(0,2).toUpperCase())}</span>`}<div><p class="eyebrow">PUBLIC BUILDER PROFILE</p><h1>${esc(p.display_name || p.handle)}</h1><p class="sponsor">@${esc(p.handle)} · Joined ${date(p.joined_at)}</p></div></section><p class="profile-bio">${esc(p.bio || 'This builder has not added a bio yet.')}</p><div class="socials">${p.github_login ? `<a href="https://github.com/${encodeURIComponent(p.github_login)}" target="_blank" rel="noreferrer">GitHub ↗</a>` : ''}${p.x ? `<a href="${safeURL(String(p.x).startsWith('https:') ? p.x : 'https://x.com/' + String(p.x).replace(/^@/,''))}" target="_blank" rel="noreferrer">X ↗</a>` : ''}${p.discord ? `<span>Discord: ${esc(p.discord)}</span>` : ''}${p.wallet?.address ? `<a class="wallet" href="${safeURL(p.wallet.explorer_url)}" target="_blank" rel="noreferrer" title="${esc(p.wallet.address)}">Wallet ${esc(p.wallet.address.slice(0,6))}…${esc(p.wallet.address.slice(-4))} ↗</a>` : ''}</div><div class="profile-stats">${[['Competitions',r.competitions_entered],['Placed',r.competitions_placed],['Wins',r.competitions_won],['Podium finishes',r.podium_finishes],['Best placement',r.best_placement ? '#' + r.best_placement : '—'],['Prizes earned',money(r.prize_usd)]].map(([k,v])=>`<div><strong>${esc(v ?? 0)}</strong><span>${k}</span></div>`).join('')}</div><div class="detail-grid"><section><div class="section-heading"><h2>Solutions <span class="count">${p.solutions?.length || 0}</span></h2><span>Latest entries</span></div><div id="solutions"></div><button id="more-solutions" hidden>Show more solutions ↓</button></section><aside class="panel"><h2>Payouts</h2>${(p.payouts || []).map(v=>`<article class="payout"><strong>${money(v.amount_usd)}</strong><a href="${bountyURL(v.competition?.slug)}">${esc(v.competition?.title)}</a><span>${date(v.paid_at)}</span></article>`).join('') || '<p>No public payouts yet.</p>'}</aside></div>`;
+}
+export function solutionRows(items) {
+  return items.map(s=>`<article class="solution"><h3>${esc(s.title)}</h3><a href="${bountyURL(s.competition?.slug)}">${esc(s.competition?.title)} ↗</a><p><span class="status-tag">${esc(s.status || s.competition?.status || 'Submitted')}</span>${s.placement ? ' · Place #' + esc(s.placement) : ''}${s.score ? ' · ' + esc(s.score.column?.title) + ': ' + esc(s.score.display ?? s.score.value) : ''}</p></article>`).join('') || '<div class="empty">No public solutions yet.</div>';
+}

diff --git a/src/board.js b/src/board.js
@@ -1,0 +1,9 @@
+import { esc, money, number, date, accepting, remaining, bountyURL, profileURL, safeURL, prose } from './format.js';
+export function boardView(data) {
+  const items = data.items || [];
+  const open = items.filter(accepting);
+  return `<section class="intro"><div><p class="eyebrow">THE BOUNTY TIMETABLE <span class="dot"></span></p><h1>Good work.<br>Real rewards.</h1><p class="lede">Compare live rewards, entry fees and closing times.<br>Pick your window. Make your mark.</p></div><aside class="board-total"><span class="eyebrow">LIVE OPPORTUNITY</span><strong>${money(open.reduce((n,b) => n + Number(b.potUsd ?? b.rewardAmount ?? 0), 0))}</strong><span>across ${open.length} bounties accepting entries</span><div class="mini-stats"><span><b>${number(items.reduce((n,b) => n + Number(b.submissionCount || 0),0))}</b> entries on this board</span><span class="live-label"><i></i> Public API</span></div></aside></section><section aria-labelledby="board-title"><div class="section-heading"><h2 id="board-title">Explore bounties <span class="count">${items.length}</span></h2><span>Closing soon first ↗</span></div><div class="filters"><label class="search"><span aria-hidden="true">⌕</span><input id="search" type="search" placeholder="Search your next challenge" aria-label="Search bounties"></label><label class="category-label">Category <select id="category"><option value="">All categories</option>${[...new Set(items.map(b => b.category).filter(Boolean))].sort().map(c => `<option>${esc(c)}</option>`).join('')}</select></label><label class="open-only"><input type="checkbox" id="open-only"> Accepting entries only</label></div><div id="board-list"></div><div class="list-bottom"><span id="result-count" role="status"></span><button id="load-more" ${data.next_cursor ? '' : 'hidden'}>Load more bounties ↓</button></div></section>`;
+}
+export function boardRows(items) {
+  return `<div class="board-columns" aria-hidden="true"><span>CHALLENGE / CATEGORY</span><span>LIVE POT</span><span>ENTRY FEE</span><span>DEADLINE / COUNTDOWN</span><span>ENTRIES</span><span></span></div>` + (items.length ? items.map(b => `<article class="bounty-row ${accepting(b) ? '' : 'ended'}"><div class="bounty-name"><span class="category-icon">${esc(({Code:'⌘',Games:'✣',Trading:'↗',Forecasting:'◷',Growth:'✳',Security:'◇',Automation:'⚙'})[b.category] || '↗')}</span><div><a href="${bountyURL(b.slug)}">${esc(b.title)}</a><span class="category">${esc(b.category || 'General')} <span> / ${accepting(b) ? 'Accepting entries' : 'Entries closed'}</span></span></div></div><div class="pot" data-label="Live pot">${money(b.potUsd ?? b.rewardAmount)}</div><div class="fee" data-label="Entry fee">${Number(b.entryFeeUsd) ? money(b.entryFeeUsd) : 'Free'}</div><div class="deadline ${accepting(b) ? 'active' : ''}" data-label="Time left"><time data-deadline="${esc(b.deadline)}" title="${date(b.deadline)}">${remaining(b.deadline)}</time><small>${date(b.deadline).replace(/ 2026| UTC/g, "")}</small></div><div class="entries" data-label="Entries">${number(b.submissionCount)}</div><a class="row-arrow" href="${bountyURL(b.slug)}" aria-label="Open ${esc(b.title)}">↗</a></article>`).join('') : '<div class="empty"><h3>No matching bounties</h3><p>Try another keyword or category.</p></div>');
+}

diff --git a/app/board.js b/app/board.js
@@ -1,0 +1,1 @@
+import{esc as s,money as o,number as r,date as d,accepting as t,remaining as p,bountyURL as c}from"./format.js";export function boardView(n){const e=n.items||[],l=e.filter(t);return`<section class="intro"><div><p class="eyebrow">THE BOUNTY TIMETABLE <span class="dot"></span></p><h1>Good work.<br>Real rewards.</h1><p class="lede">Compare live rewards, entry fees and closing times.<br>Pick your window. Make your mark.</p></div><aside class="board-total"><span class="eyebrow">LIVE OPPORTUNITY</span><strong>${o(l.reduce((a,i)=>a+Number(i.potUsd??i.rewardAmount??0),0))}</strong><span>across ${l.length} bounties accepting entries</span><div class="mini-stats"><span><b>${r(e.reduce((a,i)=>a+Number(i.submissionCount||0),0))}</b> entries on this board</span><span class="live-label"><i></i> Public API</span></div></aside></section><section aria-labelledby="board-title"><div class="section-heading"><h2 id="board-title">Explore bounties <span class="count">${e.length}</span></h2><span>Closing soon first \u2197</span></div><div class="filters"><label class="search"><span aria-hidden="true">\u2315</span><input id="search" type="search" placeholder="Search your next challenge" aria-label="Search bounties"></label><label class="category-label">Category <select id="category"><option value="">All categories</option>${[...new Set(e.map(a=>a.category).filter(Boolean))].sort().map(a=>`<option>${s(a)}</option>`).join("")}</select></label><label class="open-only"><input type="checkbox" id="open-only"> Accepting entries only</label></div><div id="board-list"></div><div class="list-bottom"><span id="result-count" role="status"></span><button id="load-more" ${n.next_cursor?"":"hidden"}>Load more bounties \u2193</button></div></section>`}export function boardRows(n){return'<div class="board-columns" aria-hidden="true"><span>CHALLENGE / CATEGORY</span><span>LIVE POT</span><span>ENTRY FEE</span><span>DEADLINE / COUNTDOWN</span><span>ENTRIES</span><span></span></div>'+(n.length?n.map(e=>`<article class="bounty-row ${t(e)?"":"ended"}"><div class="bounty-name"><span class="category-icon">${s({Code:"\u2318",Games:"\u2723",Trading:"\u2197",Forecasting:"\u25F7",Growth:"\u2733",Security:"\u25C7",Automation:"\u2699"}[e.category]||"\u2197")}</span><div><a href="${c(e.slug)}">${s(e.title)}</a><span class="category">${s(e.category||"General")} <span> / ${t(e)?"Accepting entries":"Entries closed"}</span></span></div></div><div class="pot" data-label="Live pot">${o(e.potUsd??e.rewardAmount)}</div><div class="fee" data-label="Entry fee">${Number(e.entryFeeUsd)?o(e.entryFeeUsd):"Free"}</div><div class="deadline ${t(e)?"active":""}" data-label="Time left"><time data-deadline="${s(e.deadline)}" title="${d(e.deadline)}">${p(e.deadline)}</time><small>${d(e.deadline).replace(/ 2026| UTC/g,"")}</small></div><div class="entries" data-label="Entries">${r(e.submissionCount)}</div><a class="row-arrow" href="${c(e.slug)}" aria-label="Open ${s(e.title)}">\u2197</a></article>`).join(""):'<div class="empty"><h3>No matching bounties</h3><p>Try another keyword or category.</p></div>')}

diff --git a/src/api.js b/src/api.js
@@ -1,0 +1,30 @@
+const cache = new Map();
+const pending = new Map();
+export async function get(path, force = false) {
+  const url = 'https://make.fun/api' + path;
+  const old = cache.get(url);
+  if (!force && old && Date.now() - old.time < 60000) return old.data;
+  if (pending.has(url)) return pending.get(url);
+  const request = (async () => {
+    const options = { method: 'GET', credentials: 'omit', headers: { Accept: 'application/json', ...(old?.etag ? { 'If-None-Match': old.etag } : {}) }, };
+    let response;
+    for (let attempt = 0; attempt < 3; attempt++) {
+      response = await fetch(url, { ...options, signal: AbortSignal.timeout(45000) });
+      if (![429,503].includes(response.status) || attempt === 2) break;
+      await response.body?.cancel();
+      const delay = Math.min(10, Math.max(1, Number(response.headers.get('retry-after')) || 4));
+      await new Promise(resolve => setTimeout(resolve, delay * 1000));
+    }
+    if (!response.ok && response.status !== 304) throw new Error(response.status === 404 ? 'This page could not be found.' : `The public API returned ${response.status}. Please try again.`);
+    const data = response.status === 304 && old ? old.data : await response.json();
+    cache.set(url, { data, time: Date.now(), etag: response.headers.get('etag') || old?.etag });
+    if (cache.size > 70) cache.delete(cache.keys().next().value);
+    return data;
+  })();
+  pending.set(url, request);
+  try { return await request; } finally { pending.delete(url); }
+}
+export const boardAPI = cursor => get('/competitions?status=open&activity=times&limit=50' + (cursor ? '&cursor=' + encodeURIComponent(cursor) : ''));
+export const bountyAPI = slug => get('/competitions/' + encodeURIComponent(slug) + '?submissions=summary');
+export const leaderboardAPI = (slug, phase, view) => get('/competitions/' + encodeURIComponent(slug) + '/leaderboard?rows=first&phase=' + encodeURIComponent(phase) + '&view=' + encodeURIComponent(view));
+export const profileAPI = handle => get('/profiles/' + encodeURIComponent(handle));

diff --git a/src/format.js b/src/format.js
@@ -1,0 +1,18 @@
+export const esc = value => String(value ?? '').replace(/[&<>"']/g, c => ({ '&':'&amp;', '<':'&lt;', '>':'&gt;', '"':'&quot;', "'":'&#39;' }[c]));
+export const money = value => new Intl.NumberFormat('en-US', { style:'currency', currency:'USD', minimumFractionDigits: Number(value) % 1 ? 2 : 0, maximumFractionDigits:2 }).format(Number(value) || 0);
+export const number = value => new Intl.NumberFormat('en-US', { maximumFractionDigits:6 }).format(Number(value) || 0);
+export const date = value => value && Number.isFinite(Date.parse(value)) ? new Intl.DateTimeFormat('en-GB', { day:'numeric', month:'short', year:'numeric', hour:'2-digit', minute:'2-digit', timeZone:'UTC' }).format(new Date(value)) + ' UTC' : 'Not announced';
+export const accepting = bounty => Date.parse(bounty.deadline) > Date.now() && !['closed','resolved'].includes(bounty.status);
+export function remaining(value) {
+  const m = Math.ceil((Date.parse(value) - Date.now()) / 60000);
+  if (!Number.isFinite(m)) return 'No deadline';
+  if (m <= 0) return 'Ended';
+  return m >= 1440 ? `${Math.floor(m / 1440)}d ${Math.floor(m % 1440 / 60)}h left` : `${Math.floor(m / 60)}h ${m % 60}m left`;
+}
+export const bountyURL = slug => '#/bounty/' + encodeURIComponent(slug);
+export const profileURL = handle => '#/profile/' + encodeURIComponent(handle);
+export const safeURL = value => { if (!value) return ''; try { const u = new URL(value, 'https://make.fun'); return u.protocol === 'https:' ? esc(u.href) : ''; } catch { return ''; } };
+export function prose(value) {
+  const source = typeof value === 'string' ? value : JSON.stringify(value, null, 2);
+  return esc(source || '').split(/\n\n+/).map(block => /^#{1,4} /.test(block) ? '<h3>' + block.replace(/^#{1,4} /, '') + '</h3>' : '<p>' + block.replace(/\n/g, '<br>') + '</p>').join('');
+}
